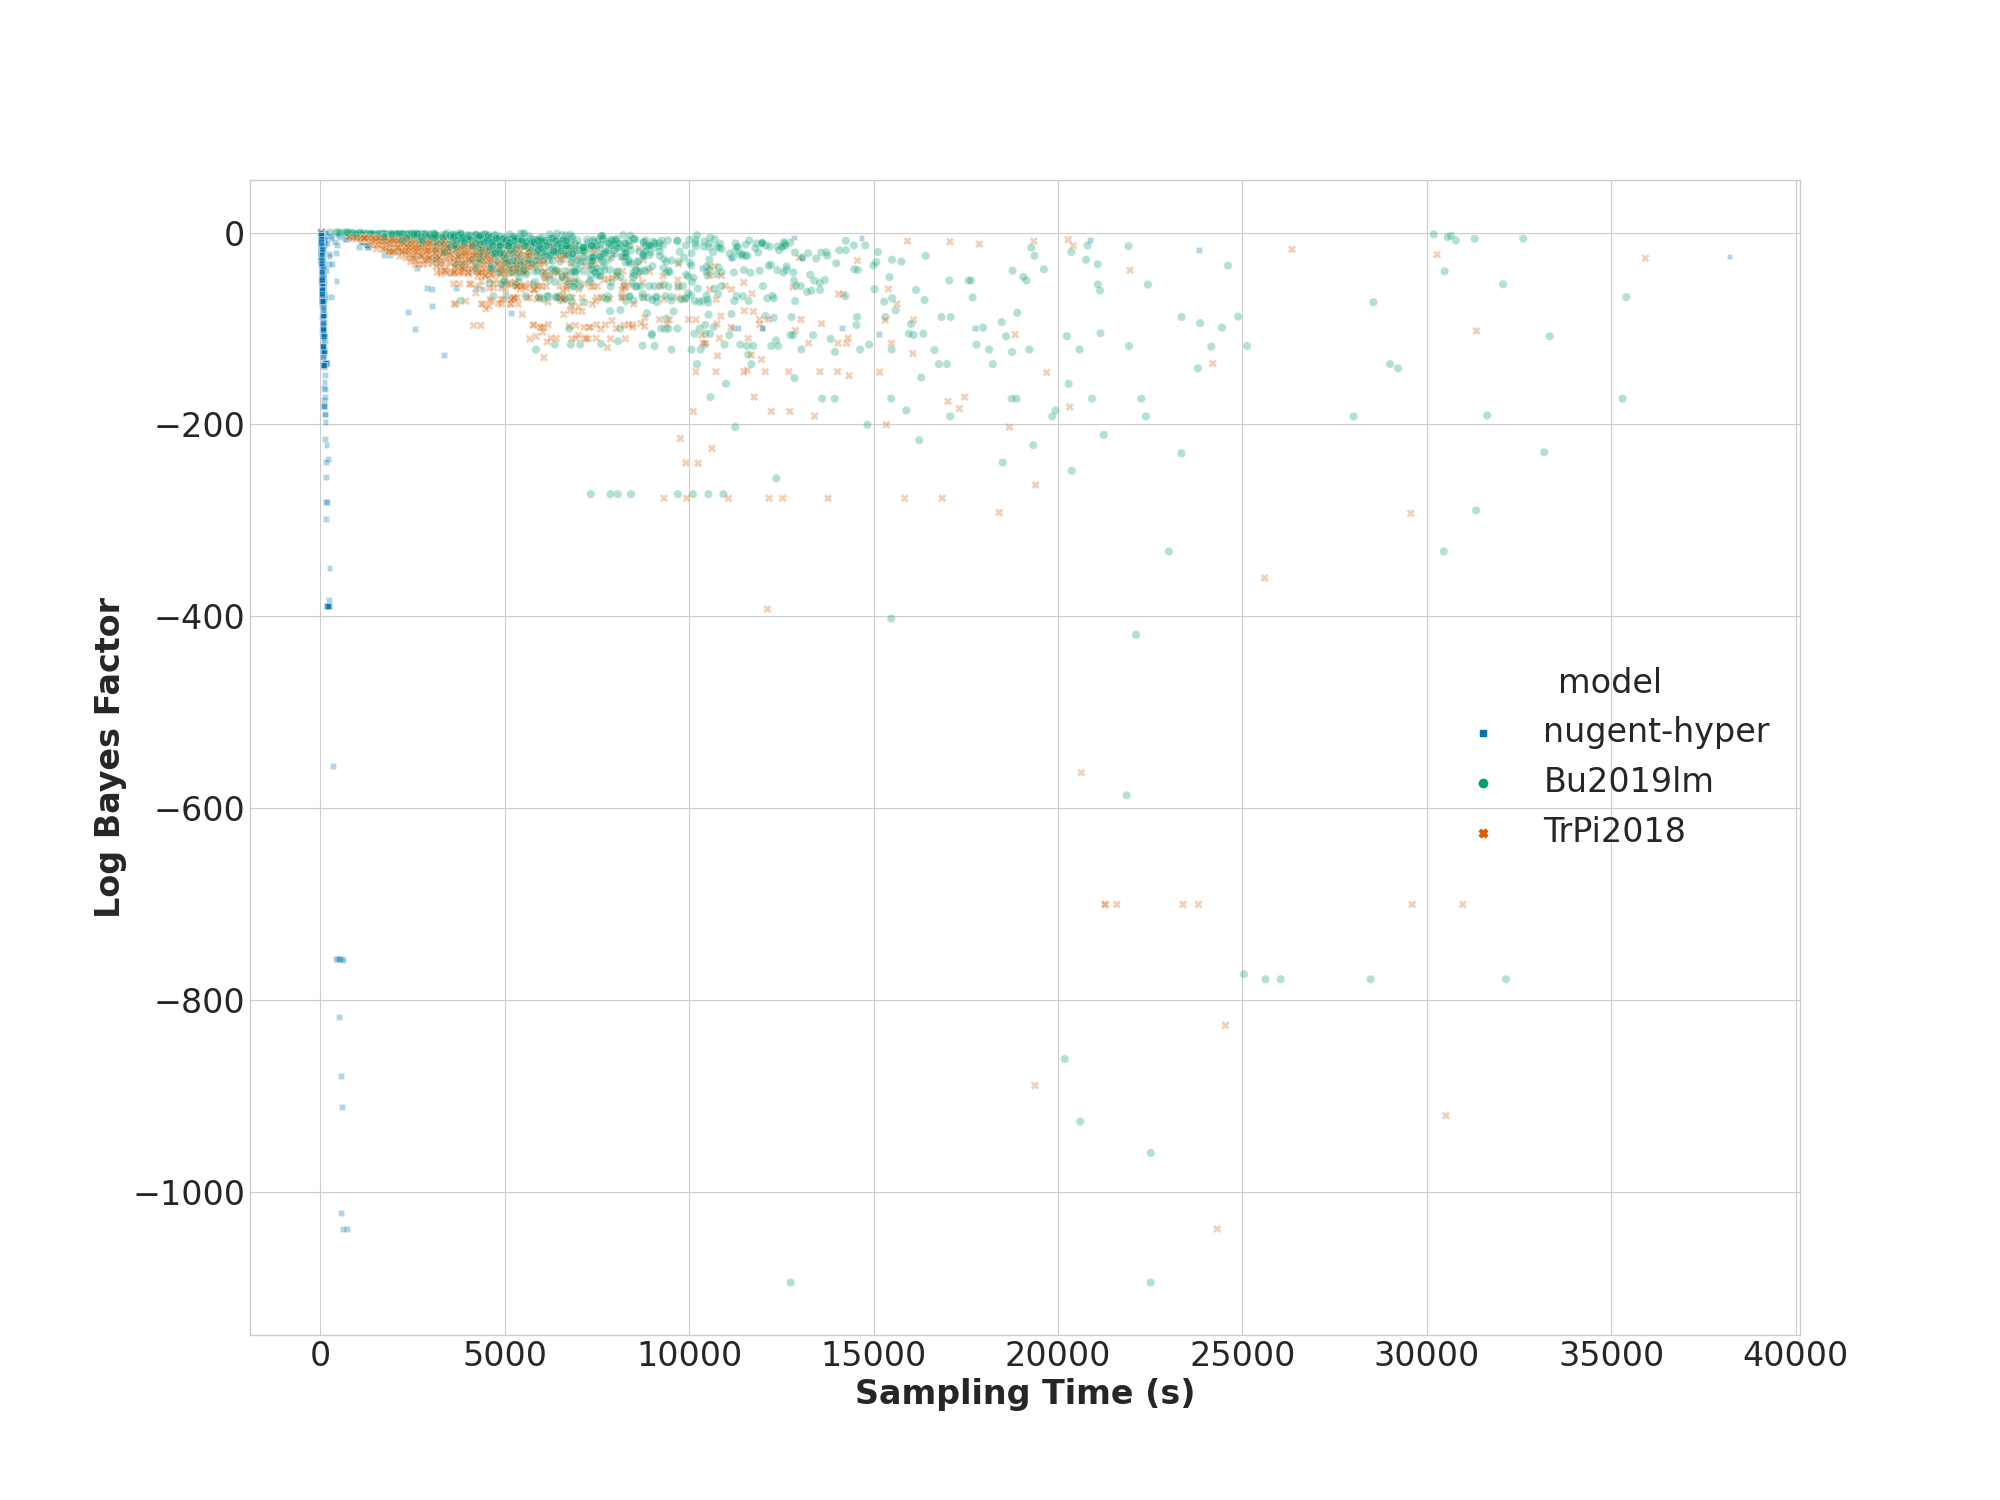
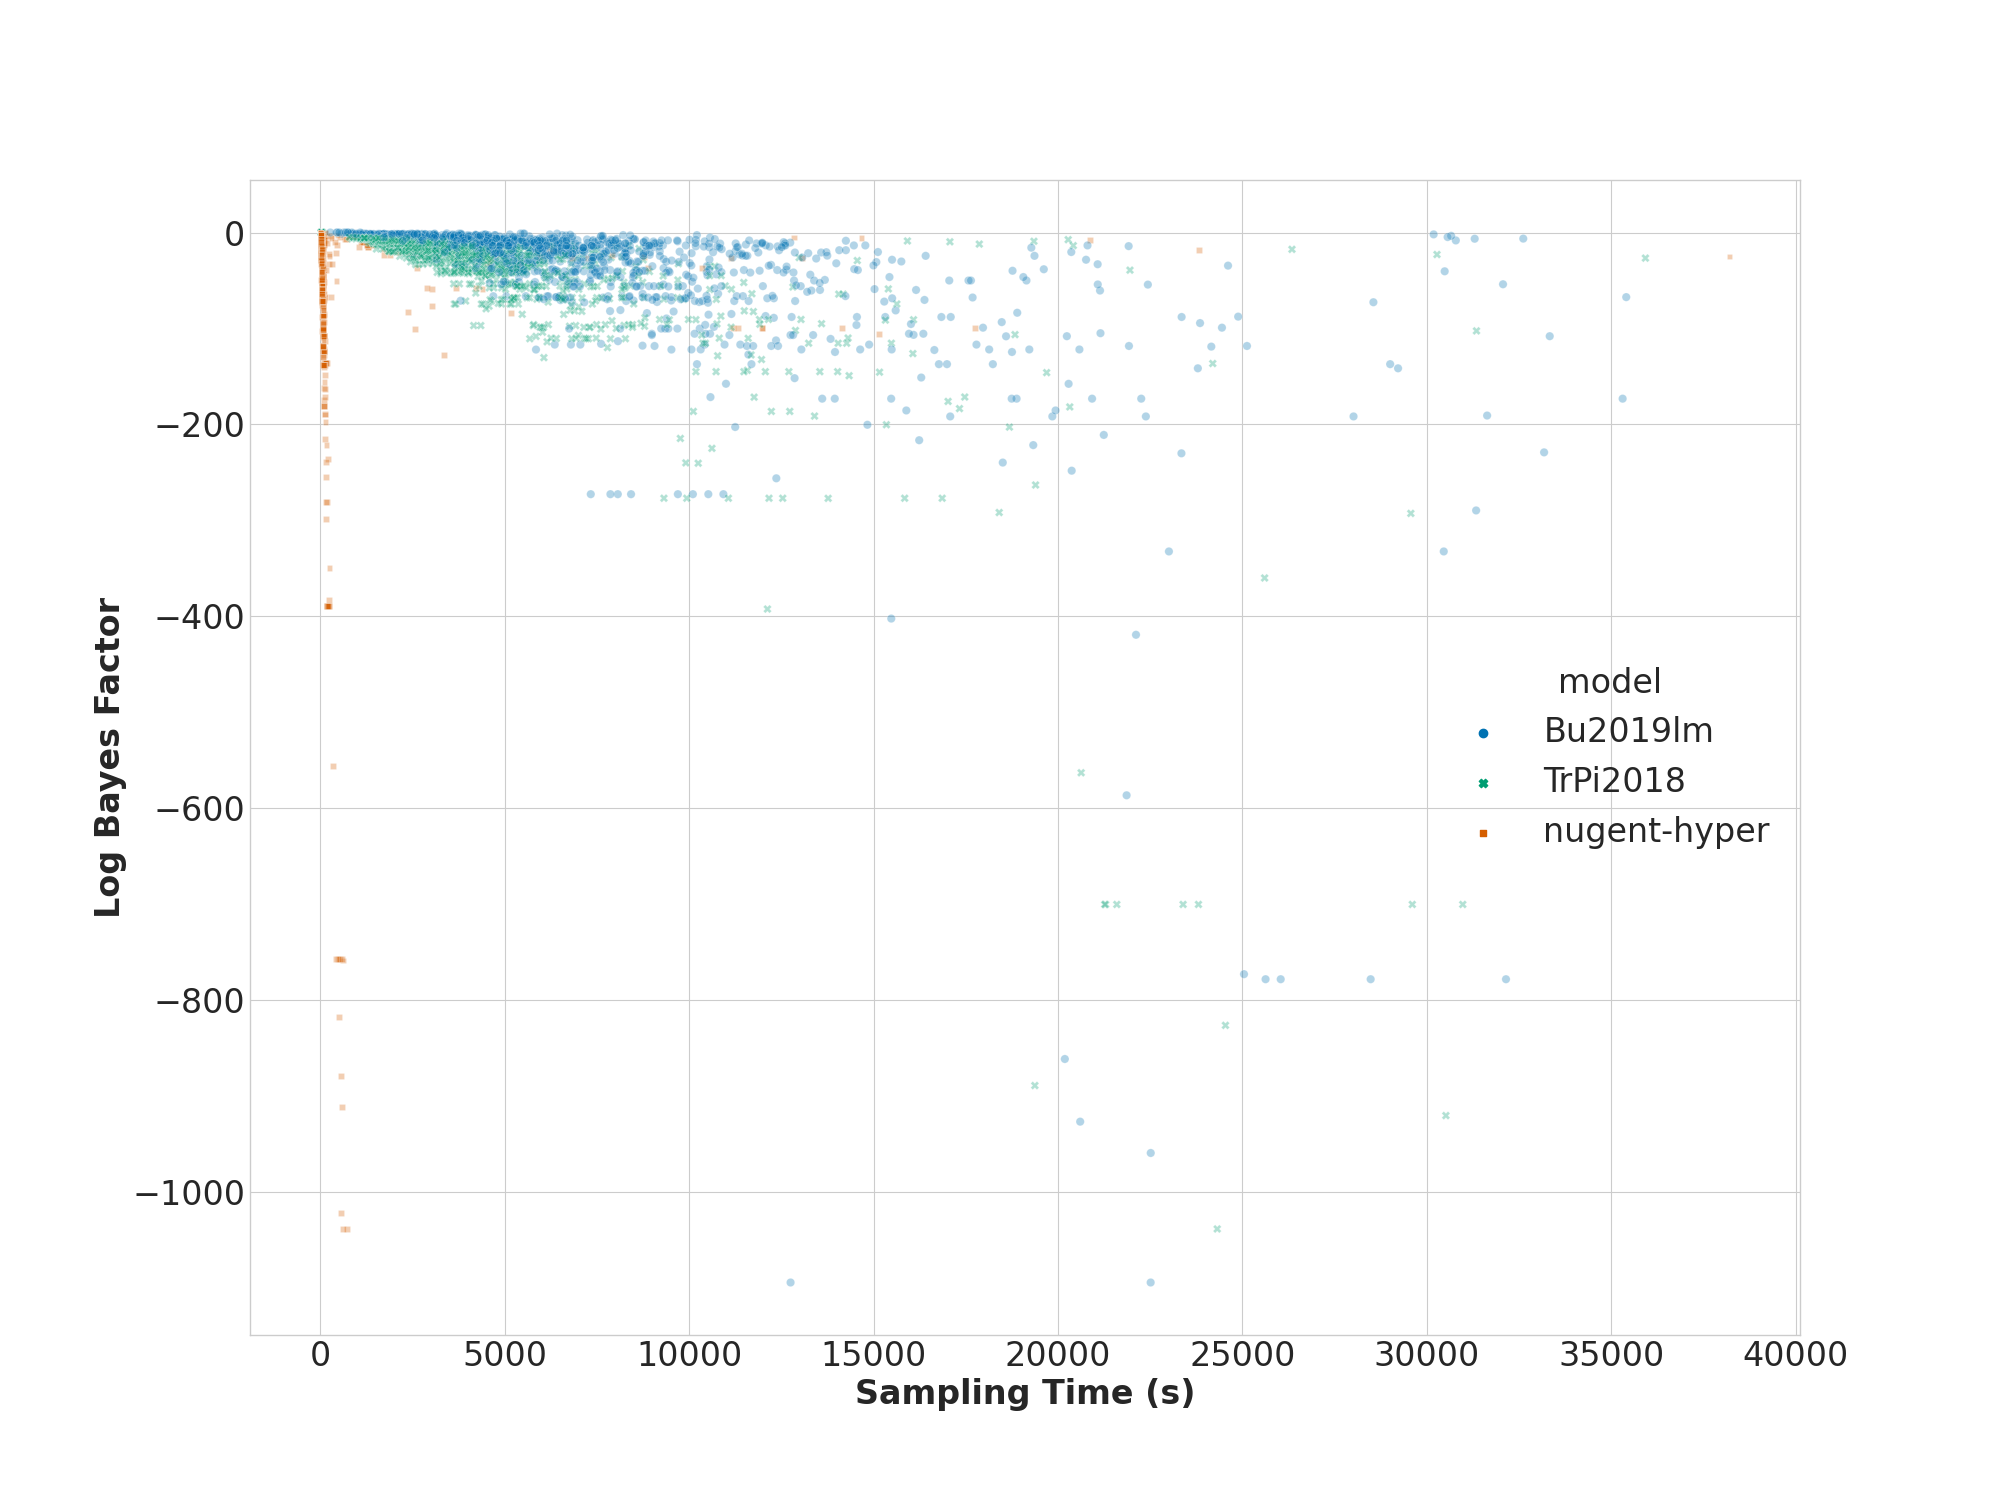
corrected hue order

Changed region(s): [[0.155, 0.1533, 0.403, 0.2453], [0.775, 0.46, 0.868, 0.5827]]

diff --git a/stats.py b/stats.py
@@ -978,6 +978,16 @@ def plotLikelihood(df, models=args.models, save=True, outdir=args.outdir, ext='.
             df_cd = df_cand[df_cand['day']==day]
             df_cd_max = df_cd[df['log_bayes_factor']==df_cd['log_bayes_factor'].max()]
             df_fo = df_fo.append(df_cd_max, ignore_index=True)
+            
+    ## print stats about number of cands best fit for each model
+    for model in models:
+        print('number of cands best fit by {}: {}'.format(model,len(df_fo[df_fo['model']==model]))) if args.verbose else None
+    for model in models:
+        print('number of cands best fit by {} (>=-100 BF): {}'.format(model,len(df_fo[df_fo['model']==model][df_fo['log_bayes_factor']>=-100]))) if args.verbose else None
+    for model in models:
+        print('number of cands best fit by {} (>=-50 BF): {}'.format(model,len(df_fo[df_fo['model']==model][df_fo['log_bayes_factor']>=-50]))) if args.verbose else None
+    for model in models:
+        print('number of cands best fit by {} (>=-10 BF): {}'.format(model,len(df_fo[df_fo['model']==model][df_fo['log_bayes_factor']>=-10]))) if args.verbose else None
     #df_fo.to_csv('./msiStats/test_fo.csv')
     
     
